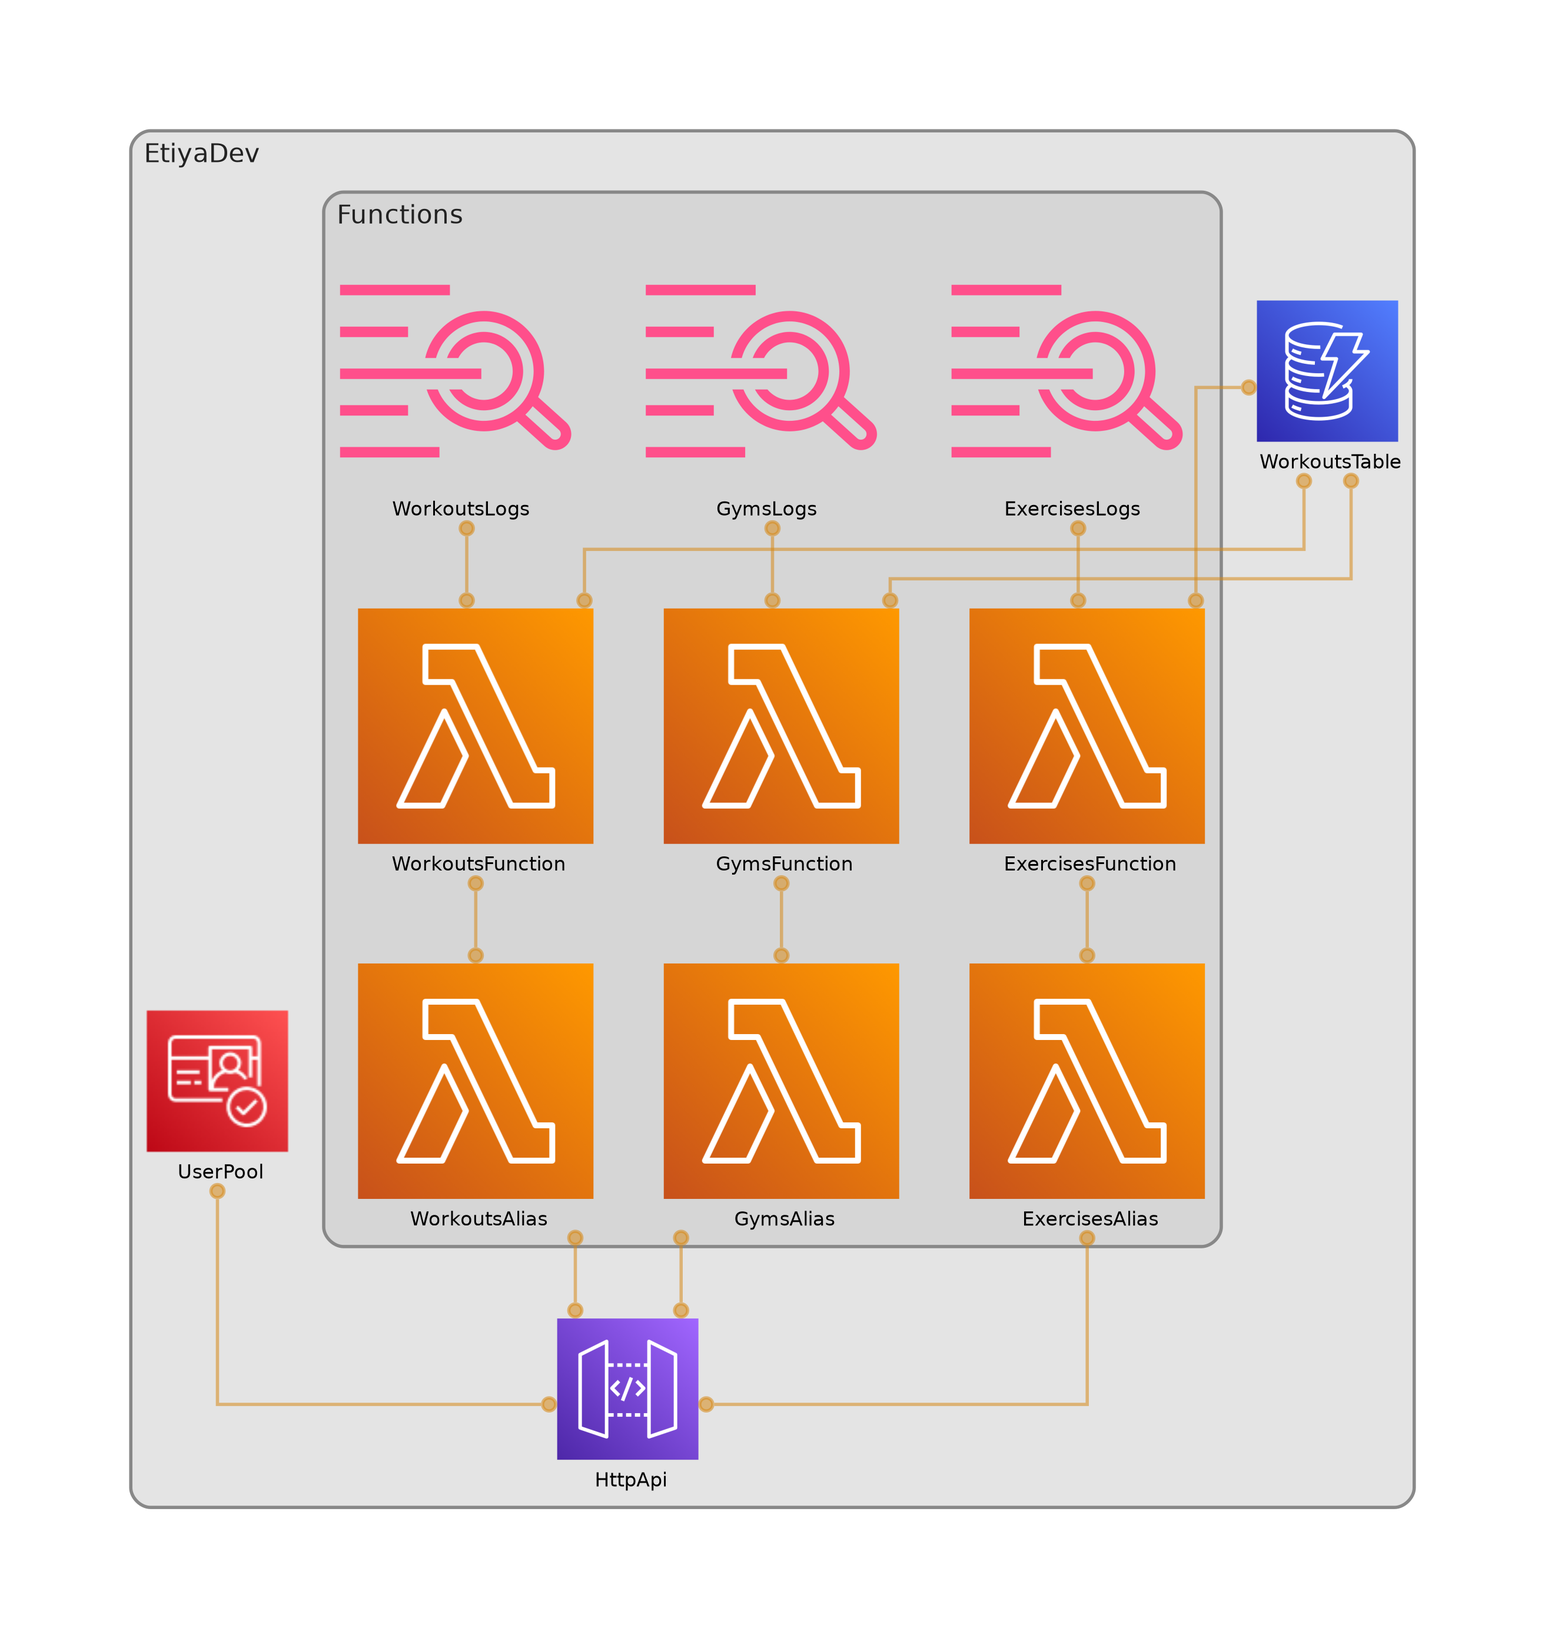
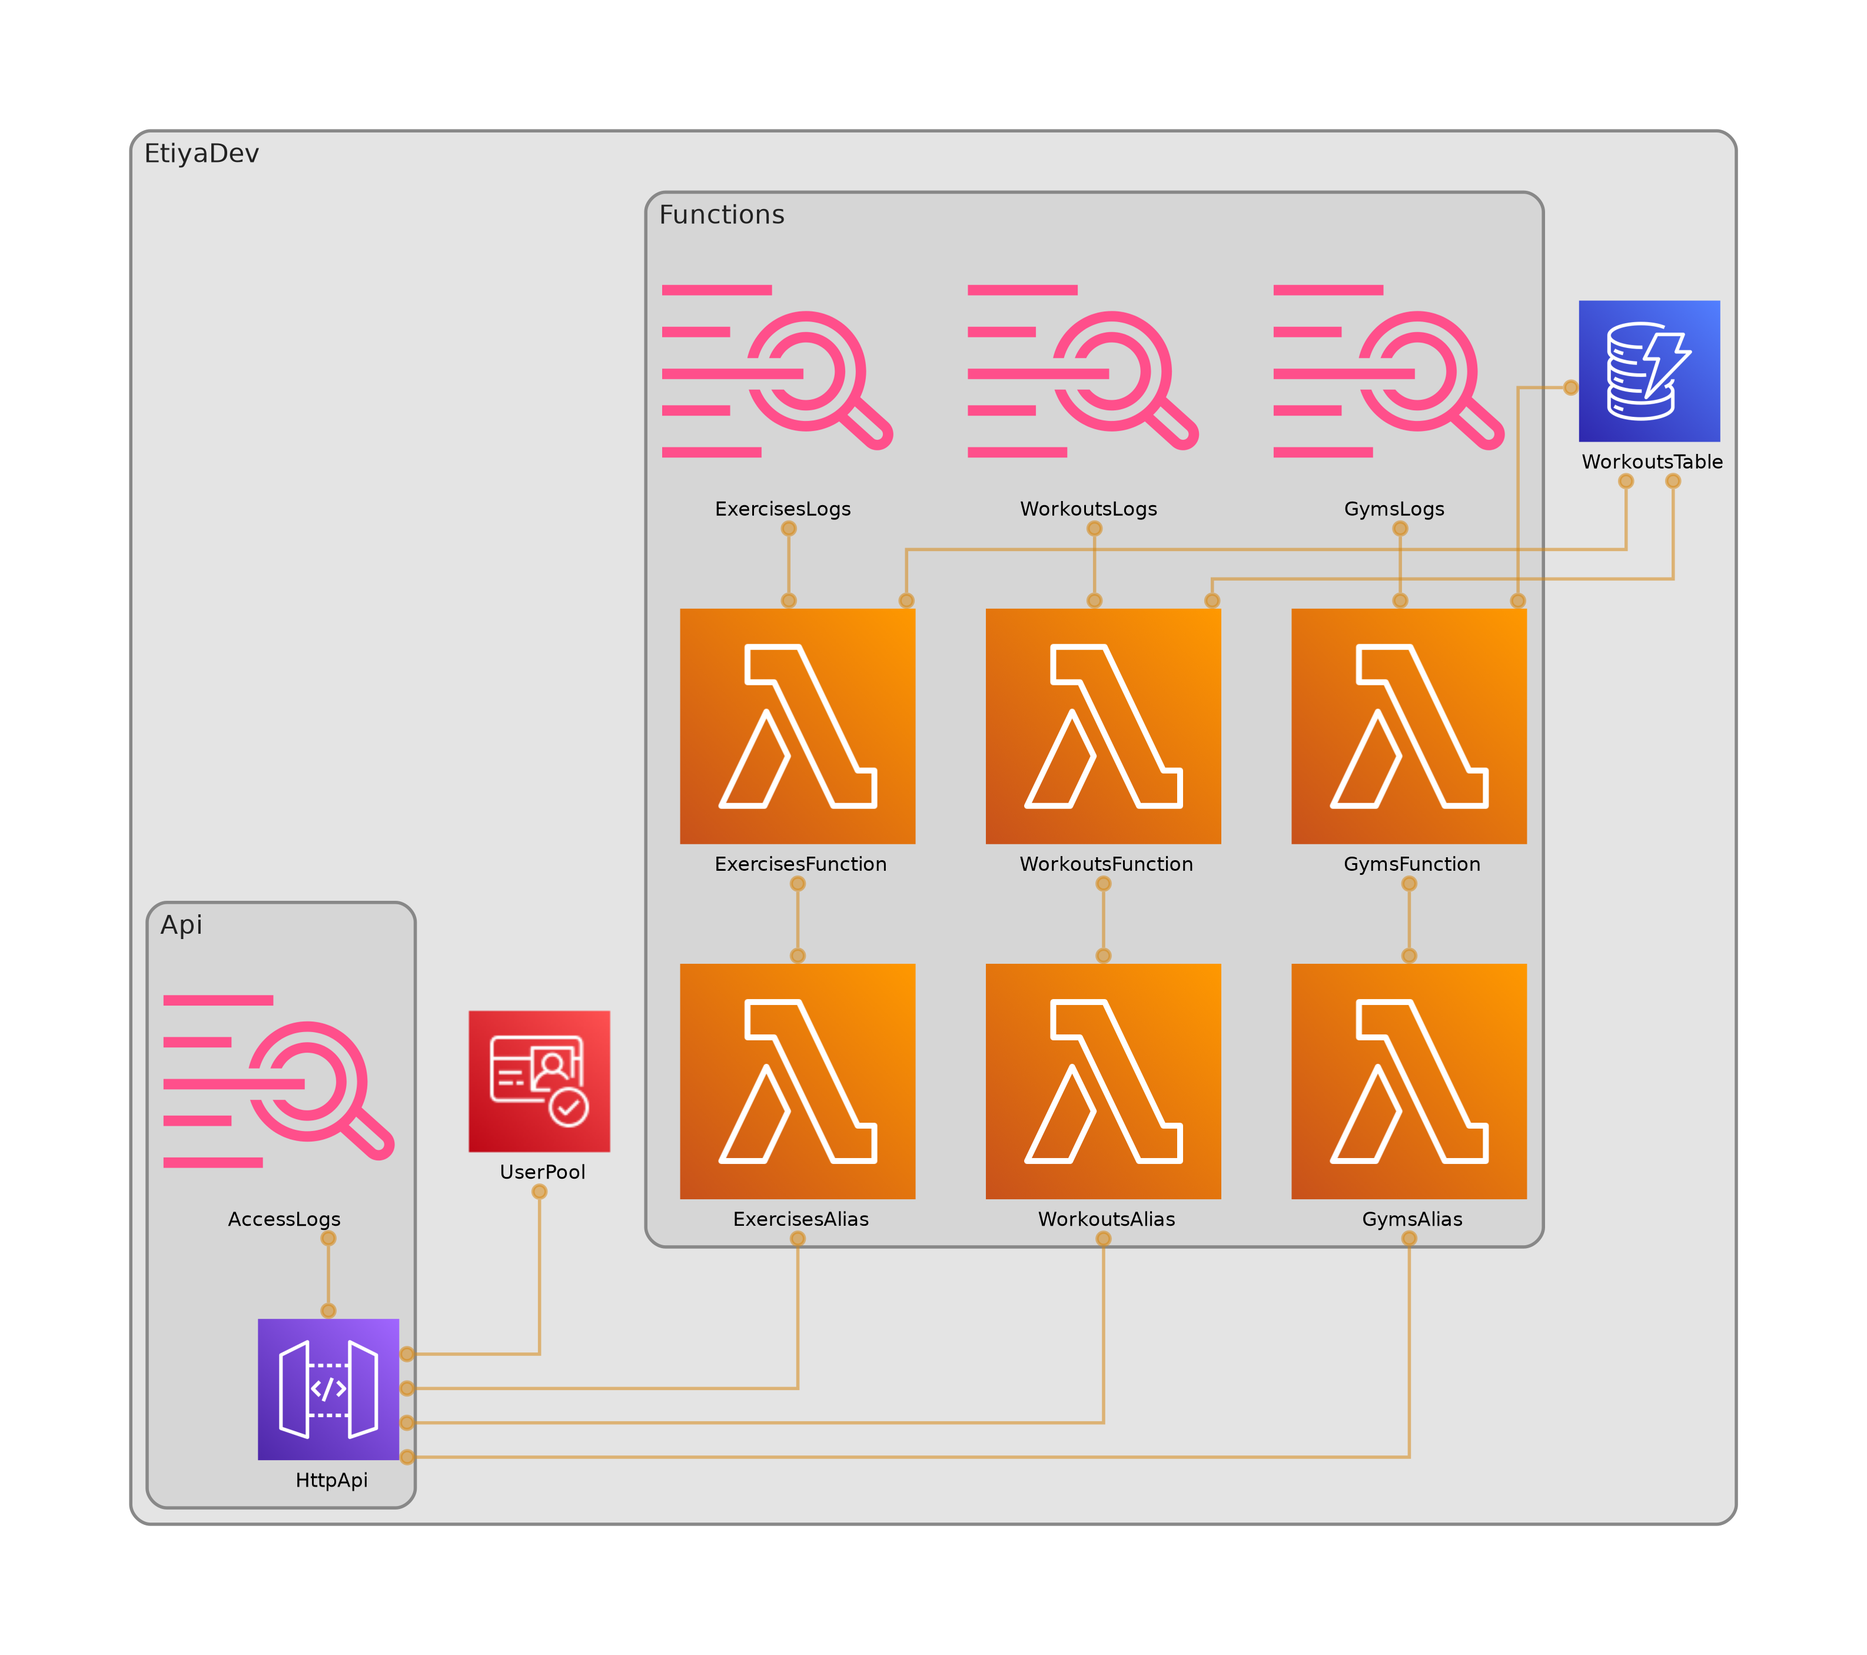
Stack checked by cdk-nag on every synth  - Password policy requires symbols, API access logs added, point-in-time recovery on the table  - Remaining findings acknowledged next to their resources, with the reason and a trigger in decisions  - SnapStart false positive acknowledged, architecture diagra

Changed region(s): [[0.0625, 0.0618, 0.9371, 0.9271], [0.781, 0.0927, 0.8122, 0.1236], [0.1874, 0.5253, 0.2187, 0.5562]]

diff --git a/infra/src/main/java/licaza/etiya/infra/Api.java b/infra/src/main/java/licaza/etiya/infra/Api.java
@@ -2,6 +2,7 @@ package licaza.etiya.infra;
 
 import java.util.List;
 import software.amazon.awscdk.Duration;
+import software.amazon.awscdk.RemovalPolicy;
 import software.amazon.awscdk.Stack;
 import software.amazon.awscdk.aws_apigatewayv2_authorizers.HttpUserPoolAuthorizer;
 import software.amazon.awscdk.aws_apigatewayv2_authorizers.HttpUserPoolAuthorizerProps;
@@ -14,6 +15,8 @@ import software.amazon.awscdk.services.apigatewayv2.HttpApi;
 import software.amazon.awscdk.services.apigatewayv2.HttpMethod;
 import software.amazon.awscdk.services.apigatewayv2.HttpRouteIntegration;
 import software.amazon.awscdk.services.lambda.IFunction;
+import software.amazon.awscdk.services.logs.LogGroup;
+import software.amazon.awscdk.services.logs.RetentionDays;
 import software.constructs.Construct;
 
 // HTTP API in front of the three Lambdas. Routes must match the route keys declared in core,
@@ -27,6 +30,18 @@ public class Api extends Construct {
   // Caps the damage from a runaway client or a bad loop; well within the free tier
   private static final int THROTTLE_RATE_PER_SECOND = 10;
   private static final int THROTTLE_BURST = 20;
+
+  // JSON, so CloudWatch Logs Insights can filter on any field. authorizerError says why a
+  // request got a 401; routeKey is "-" for paths that match no route
+  private static final String ACCESS_LOG_FORMAT =
+      "{\"requestId\":\"$context.requestId\","
+          + "\"requestTime\":\"$context.requestTime\","
+          + "\"sourceIp\":\"$context.identity.sourceIp\","
+          + "\"routeKey\":\"$context.routeKey\","
+          + "\"status\":\"$context.status\","
+          + "\"latencyMs\":\"$context.responseLatency\","
+          + "\"authorizerError\":\"$context.authorizer.error\","
+          + "\"error\":\"$context.error.message\"}";
 
   private final HttpApi httpApi;
 
@@ -75,7 +90,9 @@ public class Api extends Construct {
         "Workouts", functions.getWorkoutsApi(), "/me/workouts", HttpMethod.POST, HttpMethod.GET);
     addRoute("Workout", functions.getWorkoutsApi(), "/me/workouts/{workoutId}", HttpMethod.GET);
 
-    throttleDefaultStage();
+    CfnStage stage = (CfnStage) httpApi.getDefaultStage().getNode().getDefaultChild();
+    throttle(stage);
+    logAccess(stage);
   }
 
   private void addRoute(
@@ -90,13 +107,29 @@ public class Api extends Construct {
             .build());
   }
 
-  // Throttling has no L2 support yet, so the generated stage is patched directly
-  private void throttleDefaultStage() {
-    CfnStage stage = (CfnStage) httpApi.getDefaultStage().getNode().getDefaultChild();
+  // The default stage cannot be configured through the L2 construct, so these two methods
+  // patch the generated CloudFormation resource directly
+  private void throttle(final CfnStage stage) {
     stage.setDefaultRouteSettings(
         CfnStage.RouteSettingsProperty.builder()
             .throttlingRateLimit(THROTTLE_RATE_PER_SECOND)
             .throttlingBurstLimit(THROTTLE_BURST)
+            .build());
+  }
+
+  // One line per request, including the ones rejected with 401 before reaching any Lambda.
+  // Without this, traffic that never gets past the authorizer leaves no trace at all
+  private void logAccess(final CfnStage stage) {
+    LogGroup accessLogs =
+        LogGroup.Builder.create(this, "AccessLogs")
+            .retention(RetentionDays.TWO_WEEKS)
+            .removalPolicy(RemovalPolicy.DESTROY)
+            .build();
+
+    stage.setAccessLogSettings(
+        CfnStage.AccessLogSettingsProperty.builder()
+            .destinationArn(accessLogs.getLogGroupArn())
+            .format(ACCESS_LOG_FORMAT)
             .build());
   }
 

diff --git a/infra/src/main/java/licaza/etiya/infra/Functions.java b/infra/src/main/java/licaza/etiya/infra/Functions.java
@@ -1,8 +1,11 @@
 package licaza.etiya.infra;
 
 import java.util.Map;
+import software.amazon.awscdk.Acknowledgment;
+import software.amazon.awscdk.Annotations;
 import software.amazon.awscdk.Duration;
 import software.amazon.awscdk.RemovalPolicy;
+import software.amazon.awscdk.Validations;
 import software.amazon.awscdk.services.dynamodb.Table;
 import software.amazon.awscdk.services.lambda.Alias;
 import software.amazon.awscdk.services.lambda.Code;
@@ -75,6 +78,30 @@ public class Functions extends Construct {
     // Every domain shares the table, so each one gets read and write access to all of it.
     // Narrowing this per item type would need IAM conditions on the partition key
     table.grantReadWriteData(function);
+
+    Validations.of(function)
+        .acknowledge(
+            Acknowledgment.builder()
+                .id(
+                    "AwsSolutions-IAM4[Policy::arn:<AWS::Partition>:iam::aws:policy/service-role/"
+                        + "AWSLambdaBasicExecutionRole]")
+                .reason(
+                    "Only grants writing to CloudWatch Logs. Replacing it with an inline policy"
+                        + " is part of the narrower IAM item in docs/decisions.md")
+                .build(),
+            Acknowledgment.builder()
+                .id("AwsSolutions-L1")
+                .reason(
+                    "Java 21 is an LTS runtime supported by Lambda. Moving to Java 25 changes the"
+                        + " flake, the Docker images and the compiler release too, so it is its own"
+                        + " step")
+                .build());
+
+    // The alias below publishes a version, which is what SnapStart needs; the CDK cannot tell
+    Annotations.of(function)
+        .acknowledgeWarning(
+            "@aws-cdk/aws-lambda:snapStartRequirePublish",
+            "Published through the live alias, which is what the API invokes");
 
     return Alias.Builder.create(this, name + "Alias")
         .aliasName("live")

diff --git a/infra/src/main/java/licaza/etiya/infra/Auth.java b/infra/src/main/java/licaza/etiya/infra/Auth.java
@@ -1,8 +1,10 @@
 package licaza.etiya.infra;
 
+import software.amazon.awscdk.Acknowledgment;
 import software.amazon.awscdk.Duration;
 import software.amazon.awscdk.RemovalPolicy;
 import software.amazon.awscdk.Stack;
+import software.amazon.awscdk.Validations;
 import software.amazon.awscdk.services.cognito.AccountRecovery;
 import software.amazon.awscdk.services.cognito.AuthFlow;
 import software.amazon.awscdk.services.cognito.FeaturePlan;
@@ -42,7 +44,7 @@ public class Auth extends Construct {
                     .requireLowercase(true)
                     .requireUppercase(true)
                     .requireDigits(true)
-                    .requireSymbols(false)
+                    .requireSymbols(true)
                     .build())
             .accountRecovery(AccountRecovery.EMAIL_ONLY)
             .mfa(Mfa.OFF)
@@ -50,6 +52,21 @@ public class Auth extends Construct {
             .featurePlan(FeaturePlan.LITE)
             .removalPolicy(RemovalPolicy.DESTROY)
             .build();
+
+    Validations.of(userPool)
+        .acknowledge(
+            Acknowledgment.builder()
+                .id("AwsSolutions-COG2")
+                .reason(
+                    "Single user in a dev environment. Required MFA would also break the"
+                        + " USER_PASSWORD_AUTH flow the CLI uses to get a token for Bruno")
+                .build(),
+            Acknowledgment.builder()
+                .id("AwsSolutions-COG8")
+                .reason(
+                    "The Plus plan (threat protection) is paid; Lite covers sign-in and JWT,"
+                        + " and self sign-up is disabled")
+                .build());
 
     this.apiClient =
         userPool.addClient(

diff --git a/infra/src/main/java/licaza/etiya/infra/Database.java b/infra/src/main/java/licaza/etiya/infra/Database.java
@@ -5,6 +5,7 @@ import software.amazon.awscdk.Stack;
 import software.amazon.awscdk.services.dynamodb.Attribute;
 import software.amazon.awscdk.services.dynamodb.AttributeType;
 import software.amazon.awscdk.services.dynamodb.BillingMode;
+import software.amazon.awscdk.services.dynamodb.PointInTimeRecoverySpecification;
 import software.amazon.awscdk.services.dynamodb.Table;
 import software.constructs.Construct;
 
@@ -34,6 +35,10 @@ public class Database extends Construct {
             .billingMode(BillingMode.PROVISIONED)
             .readCapacity(READ_CAPACITY)
             .writeCapacity(WRITE_CAPACITY)
+            // Restores the table to any second of the last 35 days. Billed per GB of table size,
+            // which for this data is a fraction of a cent. Deleting the table keeps a backup too
+            .pointInTimeRecoverySpecification(
+                PointInTimeRecoverySpecification.builder().pointInTimeRecoveryEnabled(true).build())
             // Dev environment: cdk destroy must not leave the table behind
             .removalPolicy(RemovalPolicy.DESTROY)
             .build();

diff --git a/infra/src/main/java/licaza/etiya/infra/EtiyaApp.java b/infra/src/main/java/licaza/etiya/infra/EtiyaApp.java
@@ -1,9 +1,11 @@
 package licaza.etiya.infra;
 
+import io.github.cdklabs.cdknag.AwsSolutionsChecks;
 import software.amazon.awscdk.App;
 import software.amazon.awscdk.Environment;
 import software.amazon.awscdk.StackProps;
 import software.amazon.awscdk.Tags;
+import software.amazon.awscdk.Validations;
 
 public final class EtiyaApp {
 
@@ -26,6 +28,9 @@ public final class EtiyaApp {
 
     // Lets every resource be filtered by project in Cost Explorer
     Tags.of(app).add("project", "etiya");
+
+    // Fails the synth on any finding that is neither fixed nor acknowledged with a reason
+    Validations.of(app).addPlugins(new AwsSolutionsChecks(app));
 
     app.synth();
   }

diff --git a/docs/deployment.md b/docs/deployment.md
@@ -6,12 +6,14 @@
 
 | Construct | Resources |
 |---|---|
-| `Database` | DynamoDB table `EtiyaDev-Workouts`, provisioned 5 RCU / 5 WCU |
+| `Database` | DynamoDB table `EtiyaDev-Workouts`, provisioned 5 RCU / 5 WCU, with point-in-time recovery |
 | `Auth` | Cognito user pool with self sign-up disabled, plus a public app client |
 | `Functions` | Three Lambdas (one per domain) with SnapStart, each exposed through a `live` alias |
-| `Api` | HTTP API with a Cognito JWT authorizer on every route, CORS and throttling |
+| `Api` | HTTP API with a Cognito JWT authorizer on every route, CORS, throttling and access logs |
 
 One stack per environment. Today there is only `EtiyaDev`; the name leaves room for `EtiyaProd` later.
+
+Every synth also runs [cdk-nag](decisions.md#security-rules-checked-on-every-synth) security checks, and fails if a finding is neither fixed nor acknowledged.
 
 ![Resources created by the stack](images/architecture.png)
 
@@ -73,6 +75,7 @@ aws cognito-idp admin-set-user-password --user-pool-id <POOL_ID> \
   --username you@example.com --password '<PASSWORD>' --permanent
 ```
 
+* The password needs at least 8 characters, with uppercase, lowercase, a digit and a symbol.
 * `--message-action SUPPRESS` skips the invitation email. The address is never contacted, so it does not need to be real.
 * `--permanent` matters: without it the user stays in `FORCE_CHANGE_PASSWORD` and login returns a challenge instead of tokens.
 
@@ -91,14 +94,15 @@ The table and the user pool use `RemovalPolicy.DESTROY`, so nothing is left behi
 
 ## Cost
 
-Everything here fits the AWS free tier, with two exceptions worth knowing about:
+Everything here fits the AWS free tier, with three exceptions worth knowing about:
 
 | Service | Situation |
 |---|---|
 | Lambda | 1M requests and 400k GB-s per month, always free. **SnapStart costs nothing extra for Java** |
 | DynamoDB | The always-free 25 RCU / 25 WCU apply to *provisioned* capacity, which is why the table is provisioned rather than on-demand |
+| DynamoDB backups | ⚠ Point-in-time recovery is not free: $0.20 per GB-month of table size. A personal workout history weighs a few MB, so this is a fraction of a cent |
 | Cognito | Free monthly active users far above what this project needs |
-| CloudWatch Logs | 5 GB per month; log groups are set to a 14 day retention, since the default is to keep them forever |
+| CloudWatch Logs | 5 GB per month; log groups, including the API access logs, keep 14 days, since the default is to keep them forever |
 | HTTP API | ⚠ ~$1 per million requests. Its free tier only lasts 12 months |
 | S3 (CDK assets) | ⚠ Each deploy uploads the ~52 MB jar. Cents per month, but old assets accumulate |
 
@@ -106,7 +110,7 @@ Deliberately avoided: NAT gateways, customer-managed KMS keys, Secrets Manager a
 
 ## Abuse and limits
 
-* Every route requires a valid Cognito token, and API Gateway answers `401` **before invoking any Lambda**, so unauthorized traffic costs no Lambda time.
+* Every route requires a valid Cognito token, and API Gateway answers `401` **before invoking any Lambda**, so unauthorized traffic costs no Lambda time. It still shows up in the access logs, with the source IP and the reason for the rejection.
 * Self sign-up is disabled, so knowing the URL is not enough to get an account.
 * The default stage throttles at 10 requests per second with a burst of 20.
 * **Honest limitation:** API Gateway bills for every request it receives, including the ones it rejects. A sustained flood at the throttle limit would cost real money, so the API URL is not published in this repo and a budget alarm is the safety net.

diff --git a/docs/decisions.md b/docs/decisions.md
@@ -74,7 +74,26 @@ Rejected for dev testing: IAM authorizers (secure but thrown away once a fronten
 
 The table is provisioned at 5/5 because the always-free tier covers provisioned capacity, while on-demand bills from the first request. SnapStart is enabled and each Lambda is exposed through a `live` alias, because **SnapStart only applies to published versions**: pointing the API at the function directly would silently disable it.
 
-Throttling on the stage is set through an escape hatch (`CfnStage`), since the L2 construct does not expose it. That is the most fragile line in the stack and the first thing to check if a CDK upgrade breaks synthesis.
+Throttling and access logs on the stage are set through an escape hatch (`CfnStage`), since the L2 construct does not expose the default stage's settings. That is the most fragile code in the stack and the first thing to check if a CDK upgrade breaks synthesis.
+
+## Security rules checked on every synth
+
+[cdk-nag](https://github.com/cdklabs/cdk-nag) runs the *AwsSolutions* rules on every `cdk synth`, so CI fails on any finding that is neither fixed nor acknowledged. An acknowledgment requires a written reason, and it lives next to the resource it applies to.
+
+The first run found nine issues. Three were fixed, since they cost nothing or close to it:
+
+* **Stronger password policy**, now requiring symbols. It applies the next time a password is set.
+* **Access logs on the API.** Requests rejected with `401` never reach a Lambda, so before this they left no trace at all.
+* **Point-in-time recovery on the table**, billed per GB of data, which here is a fraction of a cent.
+
+The rest are acknowledged, each with a trigger in [still open](#still-open):
+
+| Rule | Why it is accepted today |
+|---|---|
+| MFA not required, Cognito *Plus* plan not used | A single user in dev. *Plus* is paid, and required MFA would break the CLI login Bruno uses |
+| AWS managed policy on the Lambda roles | `AWSLambdaBasicExecutionRole` only grants writing logs |
+| Lambda runtime is not the latest | Java 21 is LTS; moving to 25 changes the whole toolchain at once |
+| SnapStart without a published version | A false positive: each function publishes one behind the `live` alias |
 
 ## Infrastructure as a separate Maven project
 
@@ -94,7 +113,8 @@ Deliberately postponed, with the trigger that would justify each:
 | Reserved concurrency per Lambda and a lower stage throttle | Before the API is shared with anyone |
 | `gymName` read from the catalog instead of trusting the client | The frontend shows gyms in the history |
 | `PUT` / `DELETE` for workouts | The app can edit or delete |
-| A Cognito `admin` group gating catalog writes | There are users other than the owner |
-| Narrower IAM: per-item-type conditions instead of `grantReadWriteData` | Tightening dev into something production-shaped |
+| A Cognito `admin` group gating catalog writes, and MFA | There are users other than the owner |
+| Narrower IAM: per-item-type conditions instead of `grantReadWriteData`, and an inline logs policy instead of the managed one | Tightening dev into something production-shaped |
+| Java 25: Lambda runtime, flake JDK, Docker images and compiler release together | Spring or a dependency needs it, or Java 21 nears end of support on Lambda |
 | Unit tests for `Slugs`, time normalization and key building | The suite stops being enough |
 | Measuring the real cold start in CloudWatch | Latency becomes a complaint |
